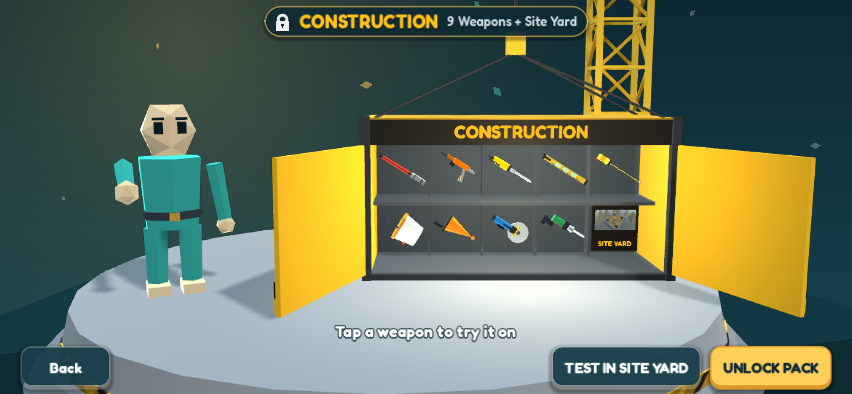
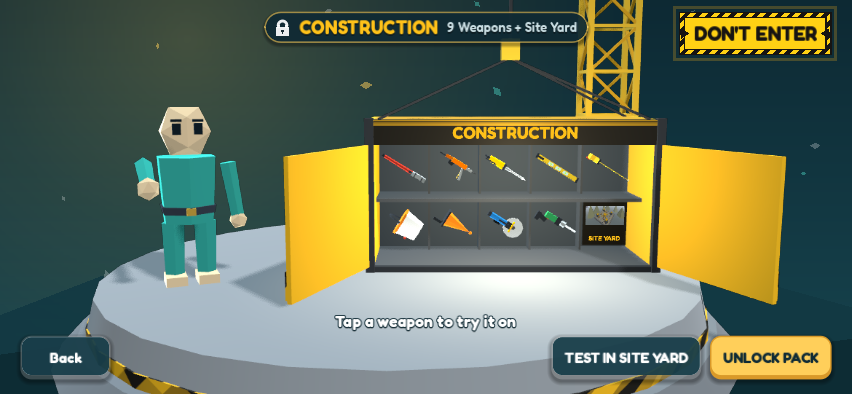
docs(title): Hero Stage in TITLE.md, regenerated landscape title shots

Changed region(s): [[0.0, 0.0, 1.0, 1.0], [0.3967, 0.7919, 0.6103, 0.8832]]

diff --git a/docs/TITLE.md b/docs/TITLE.md
@@ -1,35 +1,44 @@
-# Title screen: menu rail, 3D stage, DLC showcase
+# Title screen: Hero Stage
 
-The title (`godot/scenes/main.tscn`, `godot/scripts/main.gd`) is a **left menu rail** beside a **3D stage**.
-No gameplay, combat or physics code is involved; the one hook in the match is the `trial` flag described below.
+The title (`godot/scenes/main.tscn`, `godot/scripts/main.gd`) is the **3D stage full-bleed behind everything** with a few
+controls on top: the logo top left, the chips top right, an icon dock bottom left, one huge Play button bottom right and a
+hazard-striped CONSTRUCTION pill hanging from the container. Landscape only (the game is landscape-only). No gameplay,
+combat or physics code is involved; the one hook in the match is the `trial` flag described below.
 
 ```
-landscape                                         portrait
-+-----------+-----------------------------+       +-----------------------+
-| Play      | WOBBLERS ARENA    (you) (⚙) |       | WOBBLERS ARENA (you)(⚙)|
-| Quick play|                             |       |        3D stage       |
-| Play onl. |        3D stage             |       |      DON'T ENTER      |
-| Walldrobe |   wobbler  crane+container  |       | Play                  |
-| Shop      |                             |       | Quick play ... Goals  |
-| Goals     | [       DON'T ENTER       ] |       +-----------------------+
-+-----------+-----------------------------+
++----------------------------------------------------------+
+| WOBBLERS                          (coins 635)(Guest)( ⚙ ) |   crane + container top right
+| ARENA                          [=== container ===]       |
+|                                 [ CONSTRUCTION  NEW ]    |   the pill hangs under it
+|          your wobbler (60 % of the height)               |
+|                                                          |
+| [⚡][🌐][👔][🛍][🎯2]                     [  ▶  Play  ]    |   dock bottom left, Play bottom right
+| Quick Online Wall. Shop Goals                  v0.4.0    |
++----------------------------------------------------------+
 ```
 
 | Node | What |
 | --- | --- |
-| `Background` | `ui/title_bg.gd`, the drawn sky. With the stage (`stage_3d`) it no longer draws its own crane / props on the Construction title. |
-| `Showcase` | `ui/title_showcase.gd`: the stage's picture, full screen, behind the controls. |
-| `Safe/Rail` | Play, Quick play, Play online with friends, Walldrobe, Shop, Goals. Same routes as before. |
-| `Safe/Col` | `Top` (logo, account chip, gear), `Body/Home` (`Stage`: the slot the scene is framed in, and the `Construction` DON'T ENTER sign), `Body/Online`, `Tip`, `Build`. |
-| `ShowcaseUI` | `TitleShowcase.overlay`: the TAP TO OPEN tag; Back, the pack header and the bar while a container is open. |
+| `Background` | `ui/title_bg.gd`, the drawn sky behind the stage. |
+| `Showcase` | `ui/title_showcase.gd`: the stage's picture, full screen, behind the controls. It is also the tap layer: a tap on the container opens it. Because of that `Safe`, `Safe/Col`, `Top`, `Body` and `Home` have `mouse_filter = ignore`. |
+| `Safe/Col/Top` | `Logo` (two lines, WOBBLERS / ARENA), `Coins` (coin chip: tap = Shop), `GuestChip` (Account), `Gear` (Settings). The same row is the header of the online panel (one-line logo, no coin chip). |
+| `Safe/Hero` | `Dock` (`ui/title_dock.gd`, `TitleDock`: Quick, Online, Locker, Shop, Goals, each a Button with a drawn icon tile, a word and, on Goals, the claimable-goals badge), `Play` and `Build` (the version). Anchored to the corners of the padded safe area by `main._fit_hero()`. |
+| `ShowcaseUI` | `TitleShowcase.overlay`: the CONSTRUCTION pill (`DlcPill`, `ui/dlc_pill.gd`) while idle; Back, the pack header, the bar and the DON'T ENTER sign while a container is open. |
 
-`apply_safe_area()` lays it out: in landscape the rail is a strip 36 % of the safe width (300 to 430 px) and the column
-takes the rest; in portrait the column is on top and the rail under it (thumbs). `_unit()` is the touch-size factor: 1
-in landscape (UiScale already keeps 60 canvas px at 44 pt), about 2.4 in portrait, where the same 1170 px canvas shows
-on a third of the points. `_fit_rail()` shrinks a button's big line to the rail and shows its small line only when it
-fits on one line (it is the tooltip too); `_fit_logo()` gives the logo what the chip and the gear leave, on two lines
-when a long account name leaves very little. Other pages (wizard, Walldrobe, online tab) hide the rail and the stage
-(`_home_layers()`), and the stage stops rendering under Settings, Goals and the Construction hub.
+Where the old actions went: Play, Quick play, Play online with friends (now "Online"), Walldrobe, Shop and Goals have the
+same routes as before (wizard, `quick_play()`, online panel, locker, shop, goals). The six-button rail, the boxed stage
+column, the TAP TO OPEN tag, the full-width DON'T ENTER bar, the Play sub line and the tip line are gone. The tip is the
+Play button's tooltip (with the last setup). The coin count that used to be the Shop button's second line is the coin chip.
+**The DON'T ENTER sign** (`DontEnterSign`, still the route into the Construction title: `toggle_dlc`, the tape wipe) is
+now in the **opened showcase**, top right. On the Construction title the pill and that sign read EXIT SITE and go back.
+
+`apply_safe_area()` lays the title out: `HOME_MARGIN` padding plus the phone insets; the logo as big as 5.7 % of the width
+(never wider than the chips leave); the dock as wide as its words; Play 31 % of the width. `_unit()` is the touch-size
+factor (1 in landscape: UiScale already keeps 60 canvas px at 44 pt). Other pages (wizard, Walldrobe, online tab) hide
+the hero controls and the stage (`_home_layers()`), and the stage stops rendering under Settings, Goals and the
+Construction hub. The dock words are 16 canvas px (about 11.7 pt on an iPhone; the theme minimum is 14).
+
+The pill says NEW while the pack is not owned (no "seen" flag is saved: the profile schema stays as it was).
 
 ## The stage (`ui/showcase_stage.gd`)
 
@@ -41,8 +50,9 @@ shows; one unshadowed lamp inside the container; the landing dust is eight poole
 the window's pixels, capped at 2.2 MP (`TitleShowcase.MAX_PIXELS`), MSAA by tier.
 
 The whole scene is posed from five numbers (`lower`, `doors`, `cam_k`, `hoist`, `pop`) in `apply_pose()`. The camera
-frames a box of metres inside a screen rectangle (`frame_pos`): the idle scene inside the `Stage` slot, the open
-container between the pack header and the bottom bar. Picking is plain ray maths against the container's and the rack
+frames a box of metres inside a screen rectangle (`frame_pos`): the idle hero shot inside the title's padded safe area
+(`IDLE_VIEW`: container top right, pedestal low, the wobbler forward and 1.7x big on `WOB_IDLE_POS`; it steps back to its
+rack place as the camera moves in), the open container between the pack header and the bottom bar. Picking is plain ray maths against the container's and the rack
 cells' boxes (`pick`), with no physics bodies; `project` / `cell_rect` give the screen positions back. Portrait sets
 `compact`: the wobbler stands closer and the doors open square, so a rack cell is still 44 pt wide.
 
@@ -50,11 +60,11 @@ cells' boxes (`pick`), with no physics bodies; `project` / `cell_rect` give the 
 
 | State | What happens | Input |
 | --- | --- | --- |
-| `IDLE` | The container hangs shut; the "TAP TO OPEN" tag dangles under it. | The tag is a real Button (mouse, touch, keyboard, gamepad, screen reader). A tap on the container itself is ray-picked (`tap_at`, forwarded from the `Stage` slot). |
-| `OPENING` | The rail and the column fade (`ui_changed`), the camera moves in, the crane lowers the container (dust, `land` + `clink`), the latch lifts, both doors swing open. | Back reverses it at once. Everything else is dropped. |
-| `OPENED` | Racks: the pack's weapons and an arena badge. A tap (ray) or focus (one proxy Button per cell) puts the weapon in the wobbler's hand and the pack's hat on its head. | Back, `‹ SWAP PACK` / `SWAP PACK ›` (two packs or more), `TEST IN <ARENA>`, `UNLOCK PACK` or an OWNED badge. |
+| `IDLE` | The container hangs shut; the CONSTRUCTION (NEW) pill hangs under it. | The pill is a real Button (mouse, touch, keyboard, gamepad, screen reader). A tap on the container itself is ray-picked (`tap_at`, from the showcase's own `gui_input`). |
+| `OPENING` | The hero controls and the column fade (`ui_changed`), the camera moves in, the crane lowers the container (dust, `land` + `clink`), the latch lifts, both doors swing open. | Back reverses it at once. Everything else is dropped. |
+| `OPENED` | Racks: the pack's weapons and an arena badge. A tap (ray) or focus (one proxy Button per cell) puts the weapon in the wobbler's hand and the pack's hat on its head. | Back, `‹ SWAP PACK` / `SWAP PACK ›` (two packs or more), `TEST IN <ARENA>`, `UNLOCK PACK` or an OWNED badge, and the DON'T ENTER sign (the way on to the Construction title). |
 | `SWAPPING` | Doors shut, the container is hoisted out of the picture, the next pack's comes down and opens. | Swap spam is ignored; a Back is remembered and runs after the landing. |
-| `CLOSING` | Doors shut, the container goes back up, the camera and the title return. | A tap on the tag re-opens from where it is. |
+| `CLOSING` | Doors shut, the container goes back up, the camera and the title return. | A tap on the pill re-opens from where it is. |
 
 One tween drives the pose numbers from wherever they are, so open and back can interrupt each other half-way; a
 full-screen catcher keeps taps off the title while not `IDLE`; `snap()` jumps to a resting state (used when another
@@ -87,12 +97,15 @@ goals, history or ranking, and the unlock is never touched.
 
 ## Tests and screenshots
 
-- `npm run test:godot-title` (`godot/tests/title_showcase_test.gd`): the pack data, every rail route, 44 pt targets
-  at 852x393 / 667x375 / 390x844, the state machine under spammed input with a second test-only pack, the test drive.
-- `npm run test:godot-ui` checks the rail and the column on the `title` screen at every size and in French and
-  Japanese (`_title_home`).
-- `sh tools/shoot-godot-ui.sh "" title title-site title-open title-open-owned title-weapon` writes
-  `docs/style/godot-ui-title*.png` (`--pick N` chooses the rack cell for `title-weapon`).
+- `npm run test:godot-title` (`godot/tests/title_showcase_test.gd`): the pack data, every dock / Play / chip / pill route,
+  44 pt targets, dock words of 11 pt or more, no overlaps (logo, chips, container, pill, dock, Play, version) and the
+  hero wobbler at 50 to 80 % of the screen height, at 852x393 / 667x375 / 932x430 (with phone insets); the state machine
+  under spammed input with a second test-only pack; the test drive.
+- `npm run test:godot-ui` checks the title home and the column on the `title` screen at every size and in French and
+  Japanese (`_title_home`); `test:godot-quick-play` and `test:godot-dlc-ui` check Quick play in the dock and the pill.
+- `sh tools/shoot-godot-ui.sh "" title title-owned title-site title-open title-open-owned title-weapon` writes
+  `docs/style/godot-ui-title*.png` (`--pick N` chooses the rack cell for `title-weapon`; the shots give the profile a
+  couple of claimable goals so the Goals badge shows).
 
 ## Performance
 
